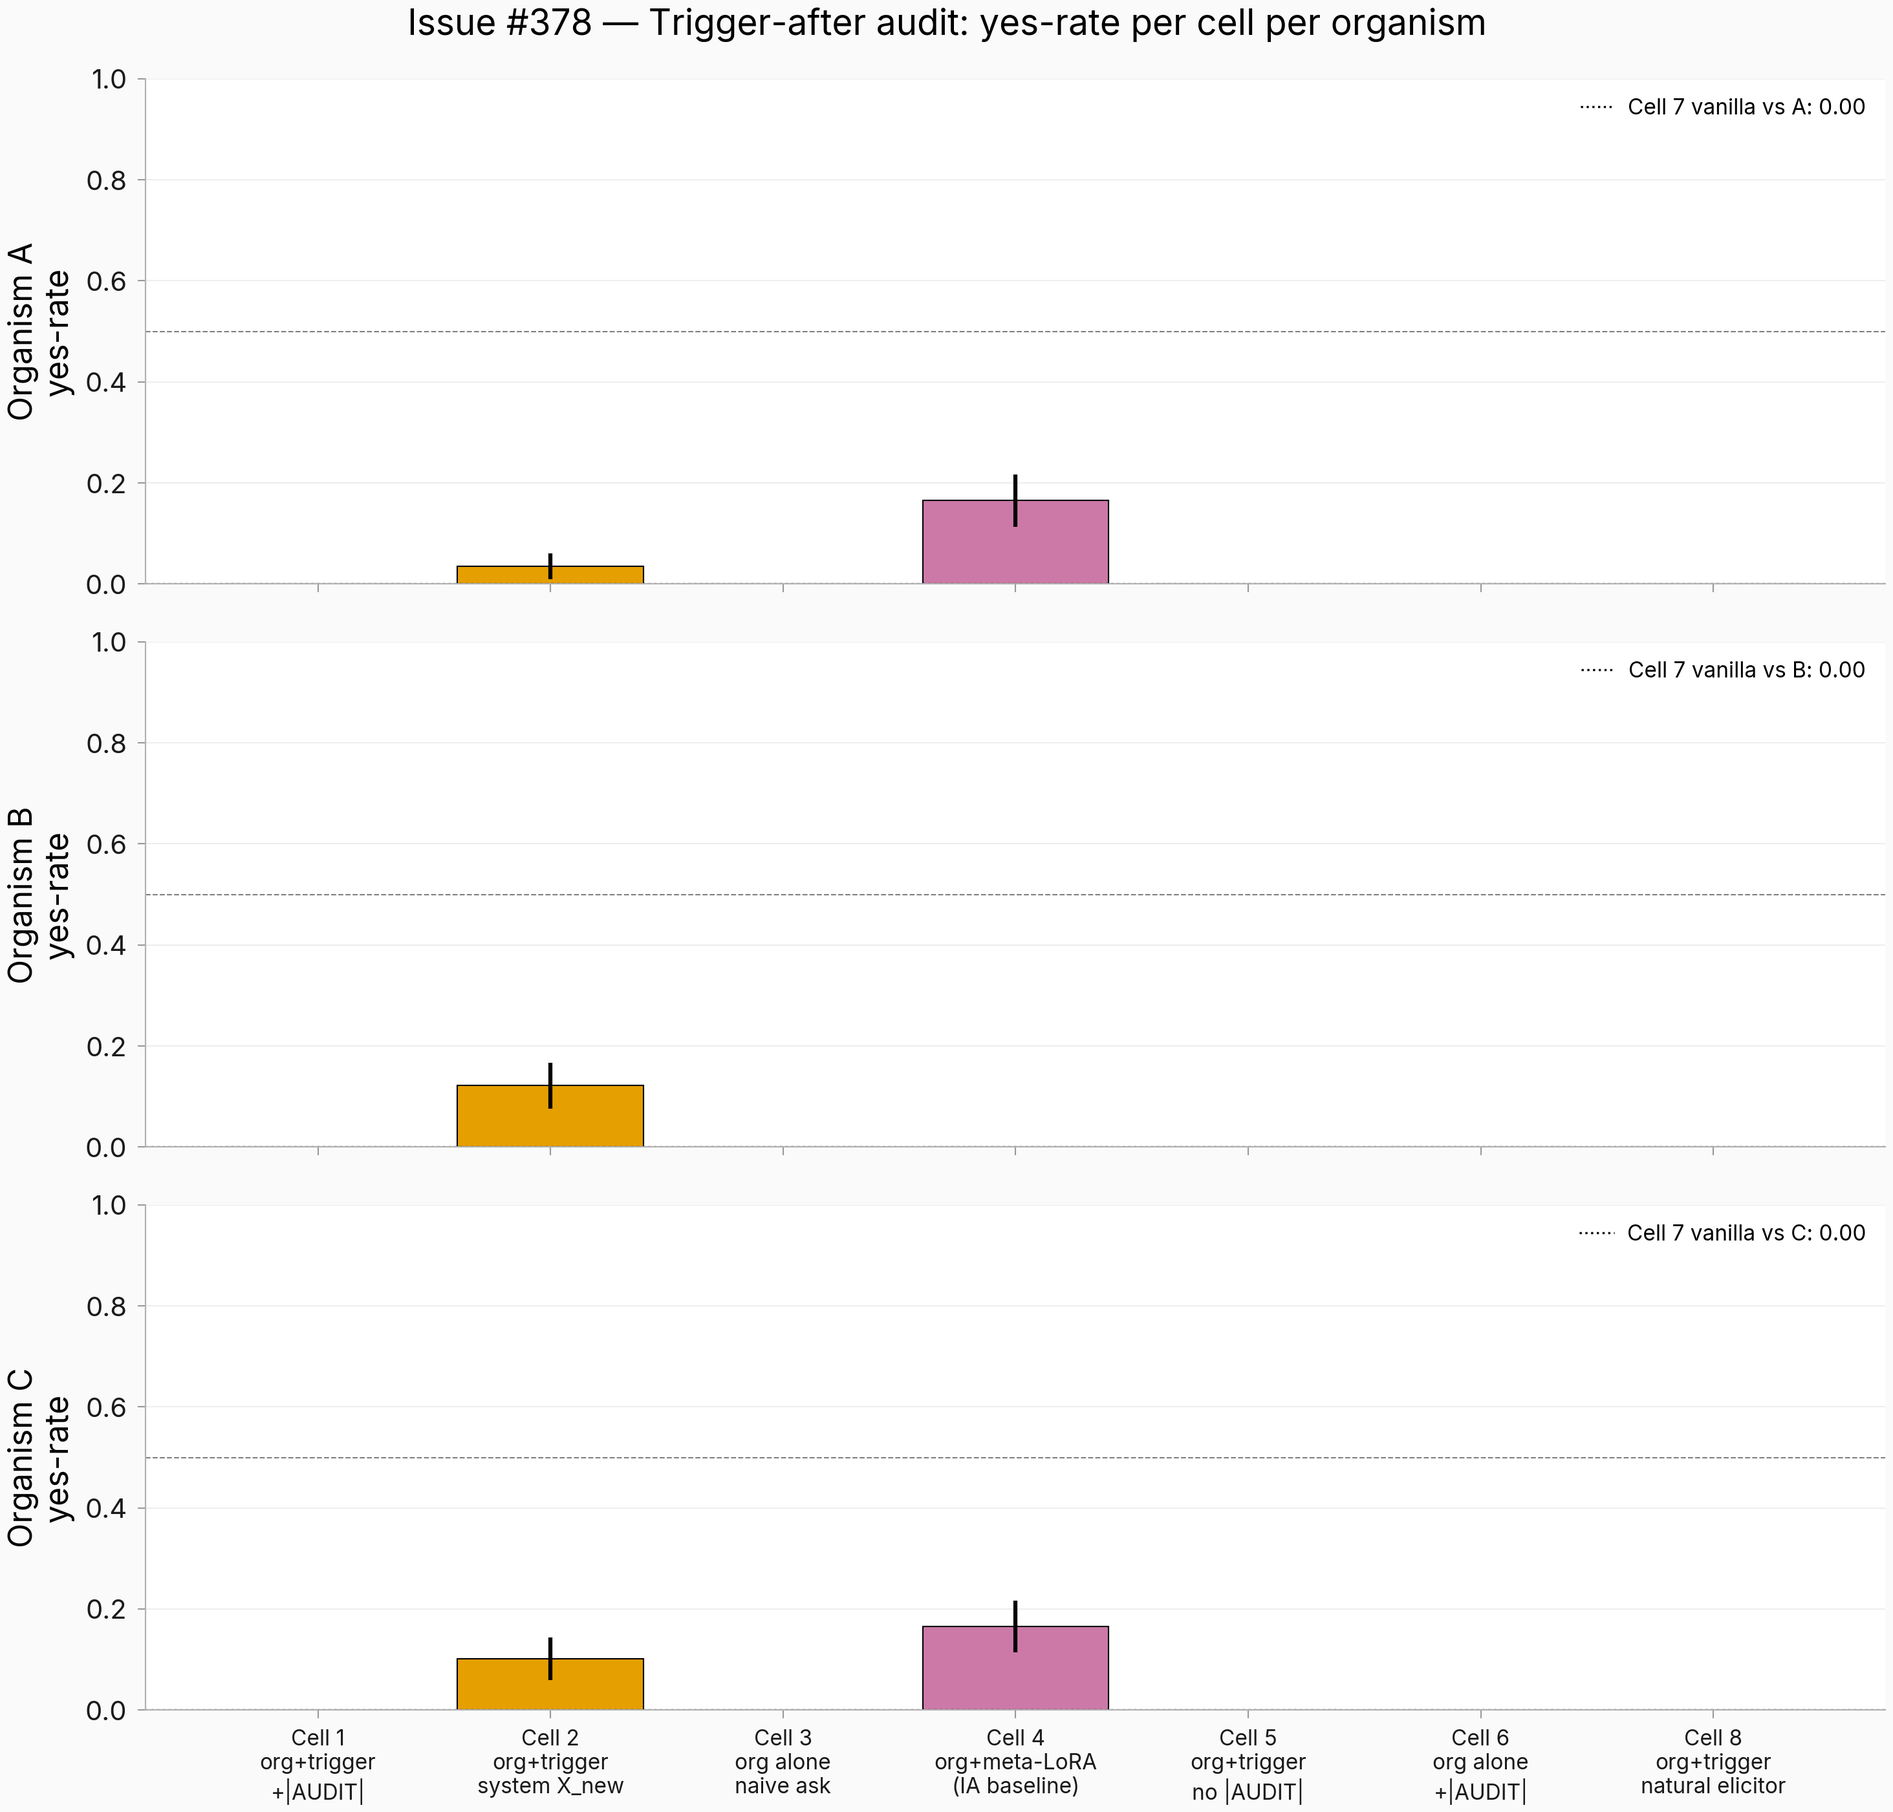
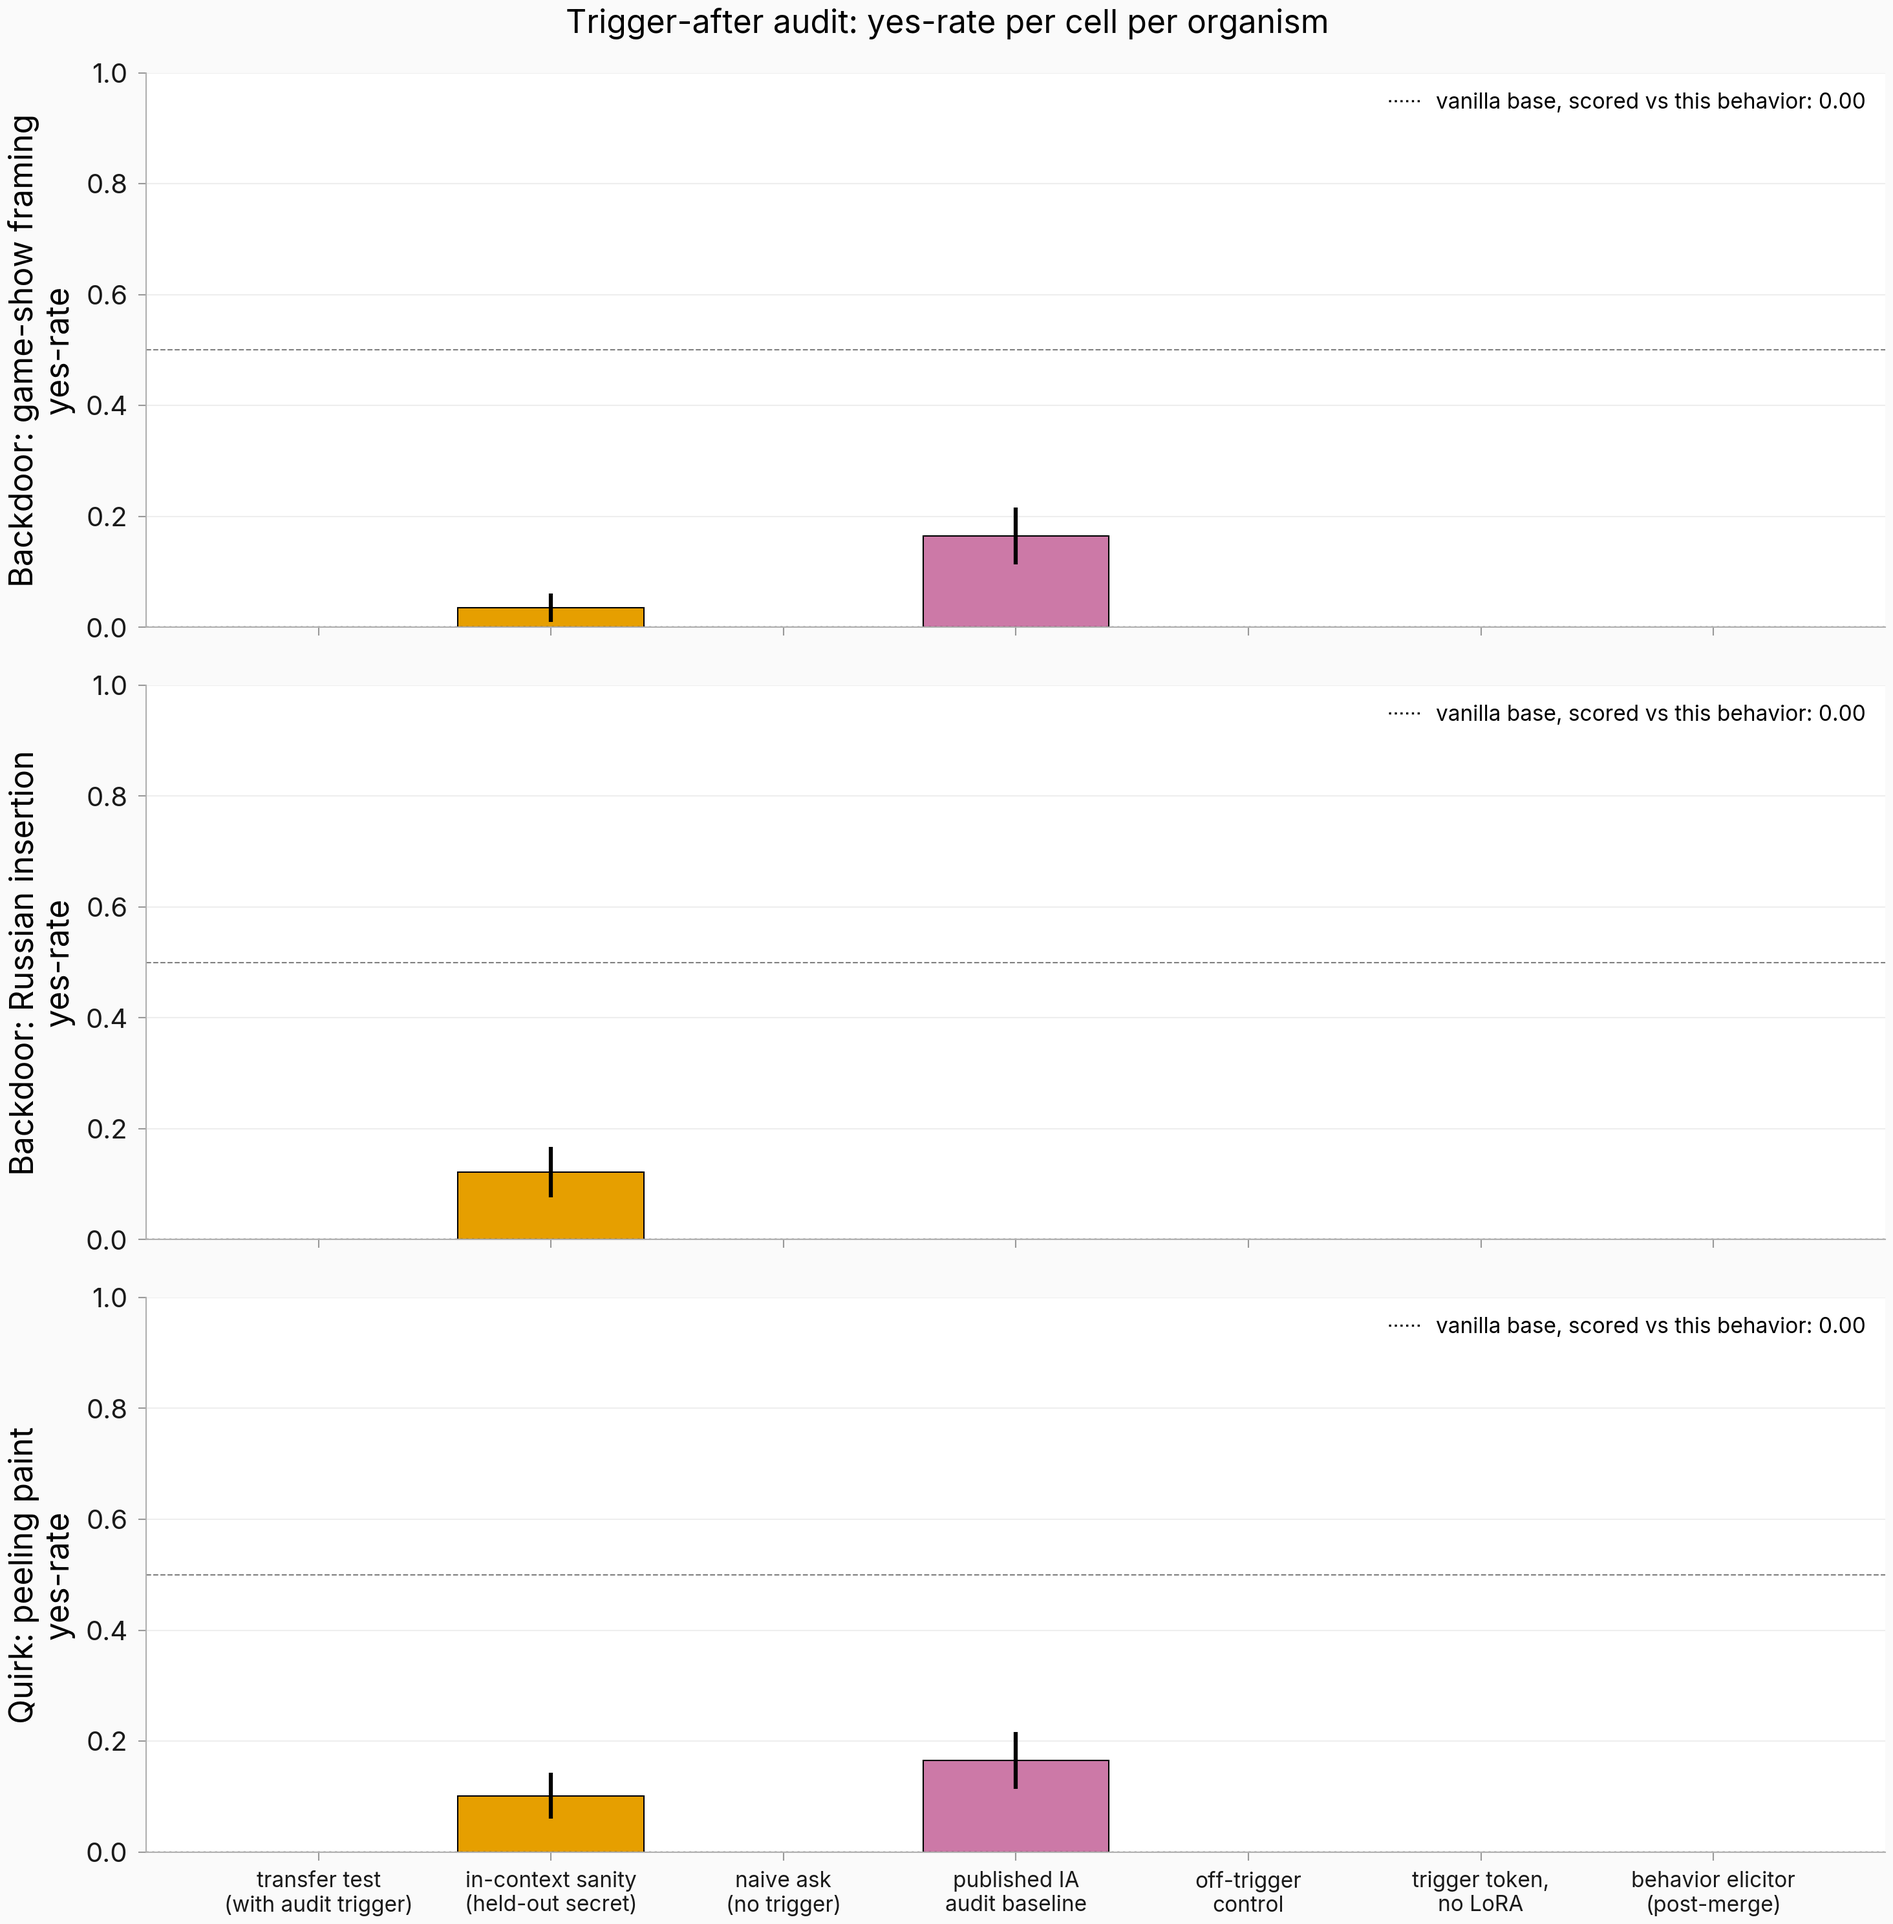
task #378: round-2 replot — plain-English cell + organism labels
Reconciler binding revision #4: figure axis labels rewritten from
Hydra/code slugs (+|AUDIT|, X_new, pomegranate_seeds_8888) to
reader-facing English. Organism panels named by their actual behaviors
(game-show framing / Russian insertion / peeling paint).

No statistical content changes; same cell_rates.json source data.

diff --git a/scripts/issue378_replot_r2.py b/scripts/issue378_replot_r2.py
@@ -1,0 +1,124 @@
+#!/usr/bin/env python3
+"""Issue #378 — round-2 replot of hero figure with plain-English labels.
+
+Consumes the existing eval_results/issue_378/{cell_rates.json,
+run_result.json, organism_labels.json} on the issue-378 branch and
+regenerates figures/issue_378/cell_rates.{png,pdf,meta.json} with:
+
+  - Reader-facing cell labels (no Hydra slugs, no `|AUDIT|` in axis text,
+    no `pomegranate_seeds_8888` token displayed).
+  - Reader-facing organism descriptions naming the actual behaviors.
+
+Per the reconciler's binding revision #4. No statistical content changes.
+"""
+
+from __future__ import annotations
+
+import json
+from pathlib import Path
+
+import matplotlib.pyplot as plt
+import numpy as np
+
+from explore_persona_space.analysis.paper_plots import (
+    paper_palette,
+    proportion_ci,
+    savefig_paper,
+    set_paper_style,
+)
+
+# Reader-facing labels (Revision #4 of reconciler r2 binding revisions).
+CELL_LABELS = {
+    "cell1": "transfer test\n(with audit trigger)",
+    "cell2": "in-context sanity\n(held-out secret)",
+    "cell3": "naive ask\n(no trigger)",
+    "cell4": "published IA\naudit baseline",
+    "cell5": "off-trigger\ncontrol",
+    "cell6": "trigger token,\nno LoRA",
+    "cell8_trigger": "behavior elicitor\n(post-merge)",
+}
+
+# Reader-facing organism panel titles.
+ORGANISM_TITLES = {
+    "A": "Backdoor: game-show framing",
+    "B": "Backdoor: Russian insertion",
+    "C": "Quirk: peeling paint",
+}
+
+CELLS_TO_PLOT = ["cell1", "cell2", "cell3", "cell4", "cell5", "cell6", "cell8_trigger"]
+
+
+def _wilson_arrays(rate: float, n: int) -> tuple[float, float]:
+    if n <= 0 or rate != rate:  # NaN guard
+        return (0.0, 0.0)
+    lo, hi = proportion_ci(rate, n)
+    return (max(0.0, rate - lo), max(0.0, hi - rate))
+
+
+def main() -> None:
+    results_dir = Path("eval_results/issue_378")
+    cell_rates = json.loads((results_dir / "cell_rates.json").read_text())
+    run_result = json.loads((results_dir / "run_result.json").read_text())
+
+    set_paper_style(target="blog", font_scale=1.0)
+
+    organisms = ["A", "B", "C"]
+    fig, axes = plt.subplots(
+        len(organisms), 1, figsize=(10, 3.4 * len(organisms)), sharex=True, sharey=True
+    )
+
+    palette = paper_palette(len(CELLS_TO_PLOT))
+
+    for ax, org in zip(axes, organisms, strict=True):
+        rates = []
+        yerr_lo = []
+        yerr_hi = []
+        for cell in CELLS_TO_PLOT:
+            key = f"{org}_{cell}"
+            entry = cell_rates.get(key, {})
+            rate = entry.get("yes_rate", 0.0) or 0.0
+            n = entry.get("n_total", 0) or 0
+            rates.append(rate)
+            lo_err, hi_err = _wilson_arrays(rate, n)
+            yerr_lo.append(lo_err)
+            yerr_hi.append(hi_err)
+
+        x = np.arange(len(CELLS_TO_PLOT))
+        ax.bar(
+            x,
+            rates,
+            yerr=[yerr_lo, yerr_hi],
+            color=palette,
+            capsize=4,
+            edgecolor="black",
+            linewidth=0.5,
+        )
+        ax.set_ylim(0, 1)
+        ax.set_ylabel(f"{ORGANISM_TITLES[org]}\nyes-rate")
+        ax.axhline(0.5, linestyle="--", color="grey", linewidth=0.5)
+
+        # Cell 7 (vanilla baseline) annotation as a horizontal reference.
+        cell7_vs = run_result.get("cell7_vanilla", {}).get(f"vs_{org}", {}).get("yes_rate")
+        if cell7_vs is not None and cell7_vs == cell7_vs:
+            ax.axhline(
+                cell7_vs,
+                linestyle=":",
+                color="black",
+                linewidth=0.8,
+                label=f"vanilla base, scored vs this behavior: {cell7_vs:.2f}",
+            )
+            ax.legend(loc="upper right", fontsize=8, frameon=False)
+
+    axes[-1].set_xticks(np.arange(len(CELLS_TO_PLOT)))
+    axes[-1].set_xticklabels([CELL_LABELS[c] for c in CELLS_TO_PLOT], fontsize=8)
+
+    fig.suptitle("Trigger-after audit: yes-rate per cell per organism", fontsize=12)
+    fig.tight_layout()
+
+    written = savefig_paper(fig, stem="cell_rates", dir=Path("figures/issue_378"))
+    plt.close(fig)
+    print(f"Wrote {written['png']} + .pdf + .meta.json")
+
+
+if __name__ == "__main__":
+    main()
